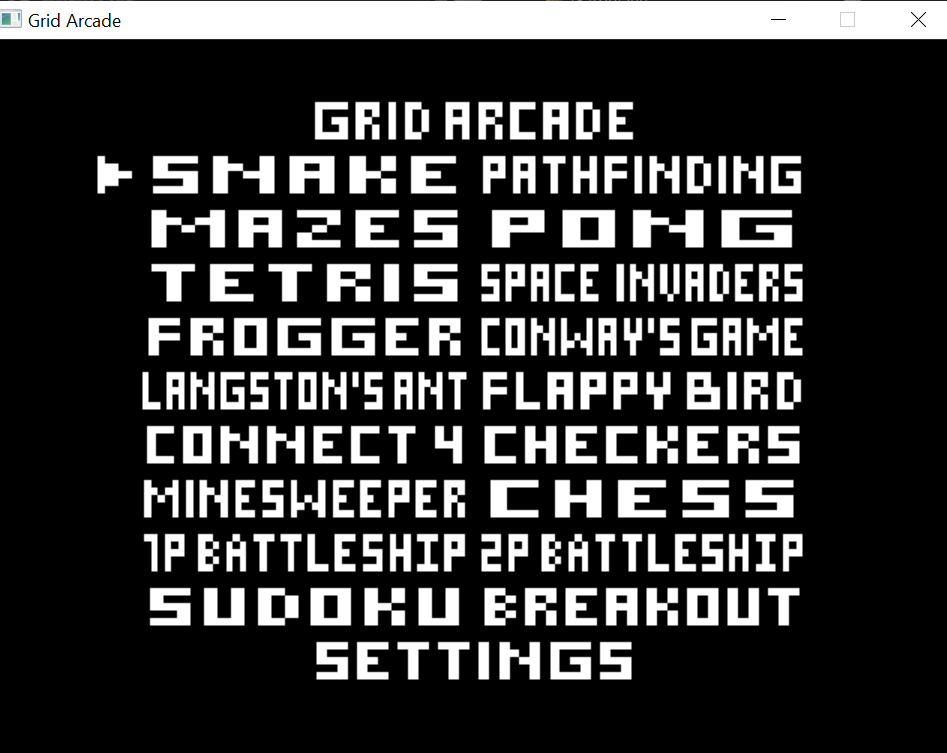
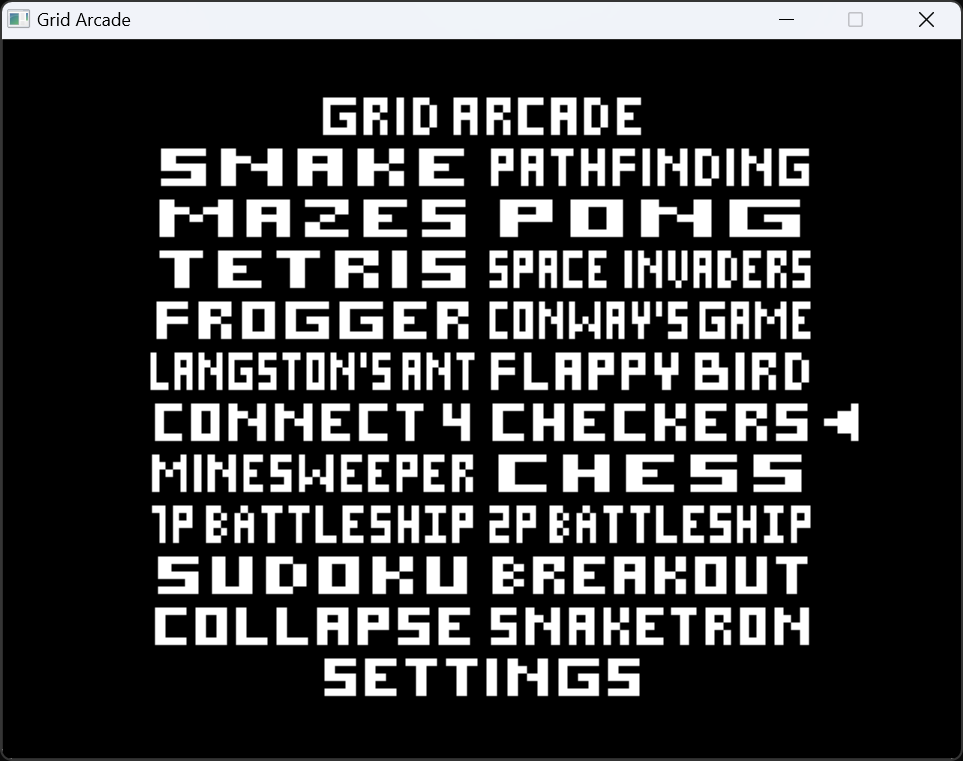
Added compile instructions
- Added compile instructions to readme
 - Updated arcade-screenshot
 - Updated .gitignore

Changed region(s): [[0.0919, 0.1222, 0.9187, 0.9163], [0.0, 0.0, 1.0, 1.0], [0.8574, 0.0, 0.9187, 0.0305]]

diff --git a/README.md b/README.md
@@ -9,3 +9,25 @@ Extract the game from the x86_64 zip file into one folder and play.
 
 ## Linux
 Extract the game from the linux zip file into one folder, then give executable permissions to the folder with chmod and play.
+
+## Compile on Linux
+1) Install essential packages:
+```
+sudo apt-get install build-essential
+sudo apt-get install gcc-mingw-w64
+sudo apt-get install libsdl2-dev
+sudo apt-get install libsdl2-image-dev
+```
+
+2) Follow the tutorials here in order to setup SDL2 source and SDL2-image source:
+https://lazyfoo.net/tutorials/SDL/01_hello_SDL/linux/index.php
+https://lazyfoo.net/tutorials/SDL/06_extension_libraries_and_loading_other_image_formats/linux/index.php
+
+3) Clone this git repository in an adjacent folder to the SDL2 and SDL2-image source.
+
+4) Enter main directiory and run make:
+```
+make
+```
+
+5) Done
